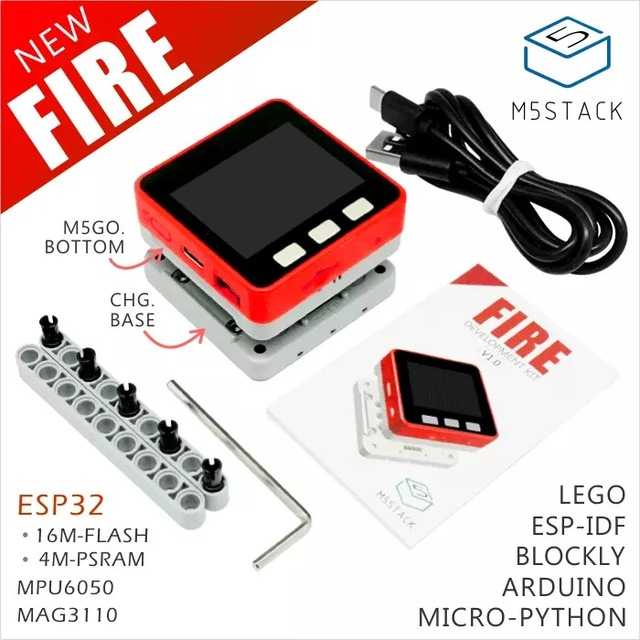
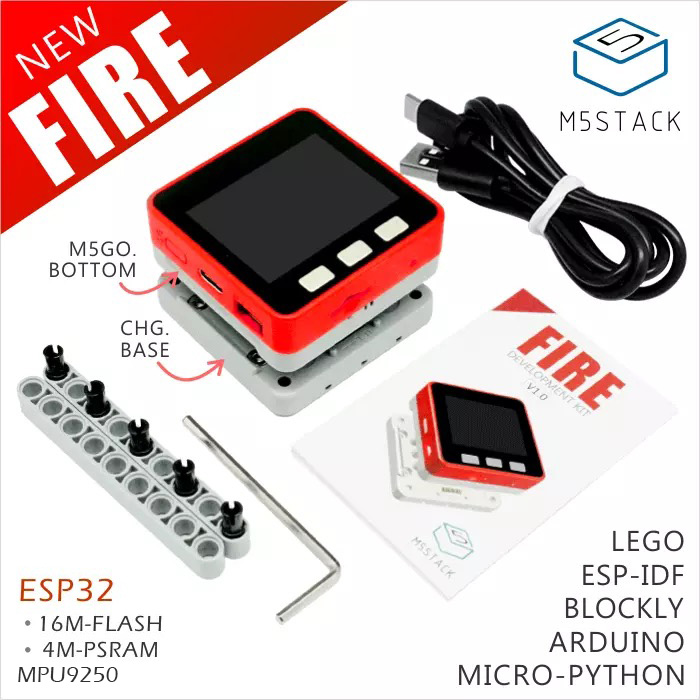
fix fire mems to mpu9250

diff --git a/docs/en/product_documents/m5stack-core/m5core_fire.md b/docs/en/product_documents/m5stack-core/m5core_fire.md
@@ -4,7 +4,7 @@
 
 The M5Stack **<mark>FIRE</mark>** is a development kit based on <mark>ESP32</mark> chip. FIRE is a kit which composed of red m5core, M5Go Base and M5Go CHG. Base(for charging red m5core). You can even program The M5Stack FIRE through Blockly, Arduino or MicroPython.
 
-The M5Stack FIRE equips the ESP32 with everything necessary to program, run and develop on the wonderchip. It also features a Six-Axis (Gyro + Accelerometer) MEMS (**MPU-6050**), a 3-Axis Digital Magnetometer (**MAG3110**) and a TFT LCD, so you can create a 3D remote gesture controller, a simple "Leap Motion" via M5Stack FIRE in a day in stead of couple weeks and so on.
+The M5Stack FIRE equips the ESP32 with everything necessary to program, run and develop on the wonderchip. It also features a 9-Axis (Gyro + Accelerometer + Magnetometer) MEMS (**MPU-9250**) and a TFT LCD, so you can create a 3D remote gesture controller, a simple "Leap Motion" via M5Stack FIRE in a day in stead of couple weeks and so on.
 
 M5Go CHG. Base is composed of POGO pin. M5Go Base is composed of PORT B, PORT C, 2 RGBLed Bars(SK6812), a microphone and a Battery(600mAh).
 
@@ -21,15 +21,15 @@ M5Go CHG. Base is composed of POGO pin. M5Go Base is composed of PORT B, PORT C,
 
 | Source        | Parameter      |
 | :----------:  |:------------: |
-| <mark>ESP32</mark>         | 240MHz dual core, 600 DMIPS, 4MB SRAM, Wi-Fi, dual mode Bluetooth         |
-| Flash          | 16M-Bytes            |
+| <mark>ESP32</mark>         | 240MHz dual core, 600 DMIPS, 520KB SRAM, Wi-Fi, dual mode Bluetooth         |
+| Flash          | 16MB Flash + 4MB pSRAM |
 | Input          | 5V @ 500mA            |
 | Interface          | TypeC x 1, GROVE(I2C+I/0+UART) x 1            |
 | LCD          | 2 inch, 320x240 Colorful TFT LCD, ILI9342            |
 | Speaker          | 1W-0928            |
 | Microphone          | MEMS Analog BSE3729 Microphone            |
 | LED          | SK6812 3535 RGB LED x 10            |
-| **MEMS**          | MPU6050, MAG3110            |
+| **MEMS**          | MPU9250 (MPU6500 + AK8963)          |
 | Battery          | 550mAh @ 3.7V, inside  vb            |
 | Op.Temp.          | 32°F to 104°F ( 0°C to 40°C )            |
 | Size          | 54 x 54 x 12.5 mm            |
@@ -96,18 +96,9 @@ M5Go CHG. Base is composed of POGO pin. M5Go Base is composed of PORT B, PORT C,
 
 **MEMS Chip**
 
-*MPU6050 i2c address: 0x68*
+*MPU9250 i2c address: 0x68*
 
-| MPU6050      | ESP32 Chip    |
-| :----------:  |:------------: |
-| SCL           | GPIO22        |
-| SDA           | GPIO21        |
-| 5V            | 5V            |
-| GND           | GND           |
-
-*MAG3110 i2c address: 0x0e*
-
-| MAG3110      | ESP32 Chip    |
+| MPU9250       | ESP32 Chip    |
 | :----------:  |:------------: |
 | SCL           | GPIO22        |
 | SDA           | GPIO21        |
@@ -137,7 +128,9 @@ M5Go CHG. Base is composed of POGO pin. M5Go Base is composed of PORT B, PORT C,
 
 **M-Bus**
 
-*Please refer to the last picture*
+<figure>
+  <img src="assets/img/product_pics/core/M-BUS.jpg" alt="M_BUS" width="300" height="300">
+</figure>
 
 ## INCLUDES
 
@@ -153,7 +146,9 @@ M5Go CHG. Base is composed of POGO pin. M5Go Base is composed of PORT B, PORT C,
     - [Arduino](https://github.com/m5stack/M5Stack/tree/master/examples)
     - [MicroPython](https://github.com/m5stack/M5GO/tree/master/examples)
 
--  **Datasheet** - [ESP32](https://www.espressif.com/sites/default/files/documentation/esp32_datasheet_cn.pdf) - [MPU6050](https://www.invensense.com/wp-content/uploads/2015/02/MPU-6000-Datasheet1.pdf) - [MAG3110](https://www.nxp.com/docs/en/data-sheet/MAG3110.pdf)
+-  **Datasheet** - [ESP32](https://www.espressif.com/sites/default/files/documentation/esp32_datasheet_cn.pdf) - [MPU9250](http://www.invensense.com/wp-content/uploads/2015/02/PS-MPU-9250A-01-v1.1.pdf) - [AK8963](https://www.akm.com/akm/en/file/datasheet/AK8963C.pdf)
+
+-  **Register map** - [MPU9250](https://www.invensense.com/wp-content/uploads/2015/02/RM-MPU-9250A-00-v1.6.pdf)
 
 -  **GitHub** - [Arduino](https://github.com/m5stack/M5Stack) - [MicroPython](https://github.com/m5stack/M5GO)
 
@@ -180,5 +175,9 @@ M5Go CHG. Base is composed of POGO pin. M5Go Base is composed of PORT B, PORT C,
 </figure>
 
 <figure>
-    <img src="assets/img/product_pics/core/fire/m5_fire_04.jpg" >
+    <img src="assets/img/product_pics/core/fire/m5_fire_01.jpg" >
+</figure>
+
+<figure>
+    <img src="assets/img/product_pics/core/fire/m5_fire_02.jpg" >
 </figure>

diff --git a/docs/zh_CN/product_documents/m5stack-core/m5core_fire.md b/docs/zh_CN/product_documents/m5stack-core/m5core_fire.md
@@ -2,7 +2,7 @@
 
 ## 描述
 
-M5Core **<mark>FIRE</mark>**是一款基于**ESP32**芯片(集成Wi-Fi和蓝牙)的升级版开发板，包括红色的主板、M5GO底座和M5GO充电底座。你可以用[M5Flow](http://flow.m5stack.com), MicroPython或Arduino来编程它. 这个红色主板包含3个按键、喇叭、LCD(320x240)、TF卡插槽、**MPU6050**和**MAG3110**。
+M5Core **<mark>FIRE</mark>**是一款基于**ESP32**芯片(集成Wi-Fi和蓝牙)的升级版开发板，包括红色的主板、M5GO底座和M5GO充电底座。你可以用[M5Flow](http://flow.m5stack.com), MicroPython或Arduino来编程它. 这个红色主板包含3个按键、喇叭、LCD(320x240)、TF卡插槽、**MPU9250**。
 
 M5GO底座内置PORT B, PORT C, 2个RGBLed灯条(SK6812), 一个麦克风和一个电池(550mAh)。
 
@@ -18,17 +18,17 @@ M5GO CHG.底座包含POGO Pin。FIRE主控通过POGO Pin与这个充电底座连
 
 | 主控资源        | 参数      |
 | :----------:  |:------------: |
-| <mark>ESP32</mark>         | 240MHz dual core, 600 DMIPS, 4MB SRAM, Wi-Fi, dual mode Bluetooth         |
-| Flash          | 16M-Bytes            |
-| Input          | 5V @ 500mA            |
+| <mark>ESP32</mark>         | 240MHz dual core, 600 DMIPS, 520KB SRAM, Wi-Fi, dual mode Bluetooth         |
+| Flash          | 16MB Flash + 4MB pSRAM |
+| Input          | 5V @ 500mA             |
 | Interface          | TypeC x 1, GROVE(I2C+I/0+UART) x 1            |
 | LCD          | 2 inch, 320x240 Colorful TFT LCD, ILI9342            |
 | Speaker          | 1W-0928            |
 | Microphone          | MEMS Analog BSE3729 Microphone            |
 | LED          | SK6812 3535 RGB LED x 10            |
-| **MEMS**          | MPU6050, MAG3110            |
-| Battery          | 550mAh @ 3.7V, inside  vb            |
-| Op.Temp.          | 32°F to 104°F ( 0°C to 40°C )            |
+| **MEMS**          | MPU9250 (MPU6500 + AK8963)     |
+| Battery          | 550mAh @ 3.7V, inside  vb       |
+| Op.Temp.          | 32°F to 104°F ( 0°C to 40°C )  |
 | Size          | 54 x 54 x 12.5 mm            |
 | C.A.S.E          | Plastic ( PC )            |
 | Weight          | 56g            |
@@ -93,18 +93,9 @@ M5GO CHG.底座包含POGO Pin。FIRE主控通过POGO Pin与这个充电底座连
 
 **MEMS传感器**
 
-*MPU6050 i2c address: 0x68*
+*MPU9250 i2c address: 0x68*
 
-| MPU6050      | ESP32 Chip    |
-| :----------:  |:------------: |
-| SCL           | GPIO22        |
-| SDA           | GPIO21        |
-| 5V            | 5V            |
-| GND           | GND           |
-
-*MAG3110 i2c address: 0x0e*
-
-| MAG3110      | ESP32 Chip    |
+| MPU9250      | ESP32 Chip    |
 | :----------:  |:------------: |
 | SCL           | GPIO22        |
 | SDA           | GPIO21        |
@@ -148,7 +139,9 @@ M5GO CHG.底座包含POGO Pin。FIRE主控通过POGO Pin与这个充电底座连
 
 -  **例程** - [Arduino](https://github.com/m5stack/M5Stack/tree/master/examples) - [MicroPython](https://github.com/m5stack/M5GO/tree/master/examples)
 
--  **数据手册** - [ESP32](https://www.espressif.com/sites/default/files/documentation/esp32_datasheet_cn.pdf) - [MPU6050](https://www.invensense.com/wp-content/uploads/2015/02/MPU-6000-Datasheet1.pdf) - [MAG3110](https://www.nxp.com/docs/en/data-sheet/MAG3110.pdf)
+-  **数据手册** - [ESP32](https://www.espressif.com/sites/default/files/documentation/esp32_datasheet_cn.pdf) - [MPU9250](http://www.invensense.com/wp-content/uploads/2015/02/PS-MPU-9250A-01-v1.1.pdf) - [AK8963](https://www.akm.com/akm/en/file/datasheet/AK8963C.pdf)
+
+-  **Register map** - [MPU9250](https://www.invensense.com/wp-content/uploads/2015/02/RM-MPU-9250A-00-v1.6.pdf)
 
 -  **GitHub** - [Arduino](https://github.com/m5stack/M5Stack) - [MicroPython](https://github.com/m5stack/M5GO)
 
@@ -173,5 +166,9 @@ M5GO CHG.底座包含POGO Pin。FIRE主控通过POGO Pin与这个充电底座连
 </figure>
 
 <figure>
-    <img src="assets/img/product_pics/core/fire/m5_fire_04.jpg">
+    <img src="assets/img/product_pics/core/fire/m5_fire_01.jpg">
+</figure>
+
+<figure>
+    <img src="assets/img/product_pics/core/fire/m5_fire_02.jpg">
 </figure>

diff --git a/docs/ja/product_documents/applications/application_bala.md b/docs/ja/product_documents/applications/application_bala.md
@@ -21,15 +21,15 @@
 |項目|詳細|
 |:---|:---|
 |対応 Core | M5Stack FIRE   <mark>※M5BALAには含まれません</mark>|
-|ESP32| 240MHz x 2コア, 600 DMIPS, 4MB SRAM, Wi-Fi, デュアルモード Bluetooth|
-|Flash| 16M-Bytes|
+|ESP32| 240MHz x 2コア, 600 DMIPS, 520KB SRAM, Wi-Fi, デュアルモード Bluetooth|
+|Flash| 16MB Flash + 4MB pSRAM|
 |電源入力 | 5V @ 500mA|
 |インターフェース | USB Type-C x 1, Grove(I2C+I/0+UART), Pogoピン x 1|
 |画面 | 2 inch, 320x240 Colorful TFT LCD, ILI9342|
 |スピーカー | 1W-0928|
 |マイク | MEMS Analog BSE3729 Microphone|
 |LED | SK6812 3535 RGB LED x 10|
-|MEMS | MPU6050/MAG3110|
+|MEMS | MPU9250 (MPU6500 + AK8963)|
 |電池 | 550mAh @ 3.7V 内蔵|
 |動作温度 | 32°F to 104°F ( 0°C to 40°C )|
 |サイズ | 54 x 54 x 21 mm|
@@ -78,9 +78,9 @@
 
 - [M5BALA 購入(スイッチサイエンス)](https://www.switch-science.com/catalog/3995/)
 - [M5Stack FIRE 購入(スイッチサイエンス)](https://www.switch-science.com/catalog/3953/)
-- [M5BALA 購入(AliExpress)](https://www.aliexpress.com/store/product/M5Satck-BALA-ESP32-2DC-PSRAM-MPU6050-MAG3110-BLE/3226069_32904033658.html)
+- [M5BALA 購入(AliExpress)](https://www.aliexpress.com/store/product/M5Satck-BALA-ESP32-2DC-PSRAM-MPU9250-BLE/3226069_32904033658.html)
 - [M5Stack FIRE 購入(AliExpress)](https://www.aliexpress.com/store/product/M5Stack-PSRAM-2-0-IoT-ESP32-16M-FLash-4M-PSRAM-BLE/3226069_32847906756.html)
 - [LEGO-CABLE 購入(AliExpress)](https://www.aliexpress.com/store/product/M5Stack-M5Bala-ESP32-6Pin-10-20/3226069_32923086380.html)
-- [MPU6050 データシート](https://store.invensense.com/datasheets/invensense/MPU-6050_DataSheet_V3%204.pdf)
-- [MPU6050 レジスタマップ](https://www.invensense.com/wp-content/uploads/2015/02/MPU-6000-Register-Map1.pdf)
-- [MAG3110 データシート](https://www.nxp.com/docs/en/data-sheet/MAG3110.pdf)
+- [MPU9250 データシート](http://www.invensense.com/wp-content/uploads/2015/02/PS-MPU-9250A-01-v1.1.pdf)
+- [MPU9250 レジスタマップ](https://www.invensense.com/wp-content/uploads/2015/02/RM-MPU-9250A-00-v1.6.pdf)
+- [AK8963 データシート](https://strawberry-linux.com/pub/AK8963.pdf)

diff --git a/docs/en/product_documents/m5stack-core/m5core_basic.md b/docs/en/product_documents/m5stack-core/m5core_basic.md
@@ -2,7 +2,7 @@
 
 ## DESCRIPTION
 
-The M5Stack **<mark>BASIC</mark>** is a black development kit based on <mark>ESP32</mark> chip composed of a black M5Core and a Bottom Base board. You can even program The M5Stack BASIC through Blockly, Arduino or MicroPython. The black core is a basic kit and **it does not own any MEMS chip(like MPU9250, MPU6050, or MAG3110...)**.
+The M5Stack **<mark>BASIC</mark>** is a black development kit based on <mark>ESP32</mark> chip composed of a black M5Core and a Bottom Base board. You can even program The M5Stack BASIC through Blockly, Arduino or MicroPython. The black core is a basic kit and **it does not own any MEMS chip(like MPU9250...)**.
 
 The a Bottom board on the back of M5Core. It's designed for expanding gpio on M-Bus besides I2S Pins(GPIO0, GPIO12, GPIO13, GPIO15, GPIO34)for DIY. Each gpio on M-Bus is expanded as pin and port for convenience and flexibility.
 
@@ -18,7 +18,7 @@ The a Bottom board on the back of M5Core. It's designed for expanding gpio on M-
 
 | Source        | Parameter      |
 | :----------:  |:------------: |
-| <mark>ESP32</mark>         | 240MHz dual core, 600 DMIPS, 520K, Wi-Fi, dual mode Bluetooth         |
+| <mark>ESP32</mark>         | 240MHz dual core, 600 DMIPS, 520KB SRAM, Wi-Fi, dual mode Bluetooth         |
 | Flash)          | 4M-Bytes            |
 | Input          | 5V @ 500mA            |
 | Interface          | TypeC x 1, GROVE(I2C+I/0+UART) x 1            |
@@ -79,8 +79,9 @@ The a Bottom board on the back of M5Core. It's designed for expanding gpio on M-
 
 **M-Bus**
 
-*Please refer to the last picture*
-
+<figure>
+  <img src="assets/img/product_pics/core/M-BUS.jpg" alt="M_BUS" width="300" height="300">
+</figure>
 
 ## INCLUDES
 
@@ -117,8 +118,4 @@ The a Bottom board on the back of M5Core. It's designed for expanding gpio on M-
 </figure>
 <figure>
   <img src="assets/img/product_pics/core/basic/basic_05.jpg" alt="basic_05" width="65%" height="65%">
-</figure>
-
-<figure>
-  <img src="assets/img/product_pics/core/M-BUS.jpg" alt="basic_05" width="65%" height="65%">
 </figure>

diff --git a/docs/en/product_documents/m5stack-core/m5core_gray.md b/docs/en/product_documents/m5stack-core/m5core_gray.md
@@ -20,7 +20,7 @@ The a Bottom board on the back of M5Core. It's designed for expanding gpio on M-
 
 | Source        | Parameter      |
 | :----------:  |:------------: |
-| <mark>ESP32</mark>         | 240MHz dual core, 600 DMIPS, 520K, Wi-Fi, dual mode Bluetooth         |
+| <mark>ESP32</mark>         | 240MHz dual core, 600 DMIPS, 520KB SRAM, Wi-Fi, dual mode Bluetooth         |
 | Flash)          | 4M-Bytes            |
 | Input          | 5V @ 500mA            |
 | Interface          | TypeC x 1, GROVE(I2C+I/0+UART) x 1            |
@@ -88,7 +88,9 @@ The a Bottom board on the back of M5Core. It's designed for expanding gpio on M-
 
 **M-Bus**
 
-*Please refer to the last picture*
+<figure>
+  <img src="assets/img/product_pics/core/M-BUS.jpg" alt="M_BUS" width="300" height="300">
+</figure>
 
 ## INCLUDES
 
@@ -128,8 +130,4 @@ The a Bottom board on the back of M5Core. It's designed for expanding gpio on M-
 </figure>
 <figure>
   <img src="assets/img/product_pics/core/gray/gray_05.jpg" alt="gray_05" width="65%" height="65%">
-</figure>
-
-<figure>
-  <img src="assets/img/product_pics/core/M-BUS.jpg" alt="basic_05" width="65%" height="65%">
 </figure>

diff --git a/docs/en/product_documents/m5stack-core/m5core_white.md b/docs/en/product_documents/m5stack-core/m5core_white.md
@@ -21,7 +21,7 @@ The a Bottom board on the back of M5Core. It's designed for expanding gpio on M-
 
 | Source        | Parameter      |
 | :----------:  |:------------: |
-| <mark>ESP32</mark>         | 240MHz dual core, 600 DMIPS, 520K, Wi-Fi, dual mode Bluetooth         |
+| <mark>ESP32</mark>         | 240MHz dual core, 600 DMIPS, 520KB SRAM, Wi-Fi, dual mode Bluetooth         |
 | Flash)          | 4M-Bytes            |
 | Input          | 5V @ 500mA            |
 | Interface          | TypeC x 1, GROVE(I2C+I/0+UART) x 1            |
@@ -126,7 +126,9 @@ The a Bottom board on the back of M5Core. It's designed for expanding gpio on M-
 
 **M-Bus**
 
-*Please refer to the last picture*
+<figure>
+  <img src="assets/img/product_pics/core/M-BUS.jpg" alt="M_BUS" width="300" height="300">
+</figure>
 
 ## INCLUDES
 
@@ -150,9 +152,4 @@ The a Bottom board on the back of M5Core. It's designed for expanding gpio on M-
 
 <figure>
     <img src="assets/img/product_pics/core/m5go/m5go_main_board.jpg" width="500">
-</figure>
-
-<figure>
-  <img src="assets/img/product_pics/core/M-BUS.jpg" alt="basic_05" width="65%" height="65%">
-</figure>
 </figure>

diff --git a/docs/en/product_documents/m5stack-core/m5go_iot_starter_kit.md b/docs/en/product_documents/m5stack-core/m5go_iot_starter_kit.md
@@ -20,7 +20,7 @@ We also supply some courses for teaching IOT programming. If you are interesting
 
 | Source        | Parameter      |
 | :----------:  |:------------: |
-| <mark>ESP32</mark>         | 240MHz dual core, 600 DMIPS, 520K, Wi-Fi, dual mode Bluetooth         |
+| <mark>ESP32</mark>         | 240MHz dual core, 600 DMIPS, 520KB SRAM, Wi-Fi, dual mode Bluetooth         |
 | Flash)          | 4M-Bytes            |
 | Input          | 5V @ 500mA            |
 | Interface          | TypeC x 1, GROVE(I2C+I/0+UART) x 1            |
@@ -125,7 +125,9 @@ We also supply some courses for teaching IOT programming. If you are interesting
 
 **M-Bus**
 
-*Please refer to the last picture*
+<figure>
+  <img src="assets/img/product_pics/core/M-BUS.jpg" alt="M_BUS" width="300" height="300">
+</figure>
 
 ## INCLUDES
 
@@ -173,8 +175,4 @@ We also supply some courses for teaching IOT programming. If you are interesting
 
 <figure>
     <img src="assets/img/product_pics/core/m5go/m5go_06.png" width="500">
-</figure>
-
-<figure>
-  <img src="assets/img/product_pics/core/M-BUS.jpg" alt="basic_05" width="65%" height="65%">
 </figure>

diff --git a/docs/en/product_documents/applications/application_bala.md b/docs/en/product_documents/applications/application_bala.md
@@ -19,15 +19,15 @@ The 2 DC driver module communicates with M5Stack FIRE through I2C bus. It's defa
 
 Model | M5Stack FIRE
 ---|---
-ESP32 | 240MHz dual core, 600 DMIPS, 4MB SRAM, Wi-Fi, dual mode Bluetooth
-Flash | 16M-Bytes
+ESP32 | 240MHz dual core, 600 DMIPS, 520KB SRAM, Wi-Fi, dual mode Bluetooth
+Flash | 16MB Flash + 4MB pSRAM
 Input | 5V @ 500mA
 Interface | TypeC x 1, GROVE(I2C+I/0+UART), Pogo Pin x 1
 LCD | 2 inch, 320x240 Colorful TFT LCD, ILI9342
 Speaker | 1W-0928
 Microphone | MEMS Analog BSE3729 Microphone
 LED | SK6812 3535 RGB LED x 10
-MEMS | MPU6050, MAG3110
+MEMS | MPU9250 (MPU6500 + AK8963)
 Battery | 550mAh @ 3.7V, inside
 Op.Temp. | 32°F to 104°F ( 0°C to 40°C )
 Size | 54 x 54 x 21 mm

diff --git a/docs/zh_CN/product_documents/applications/application_bala.md b/docs/zh_CN/product_documents/applications/application_bala.md
@@ -19,15 +19,15 @@ The 2 DC driver module communicates with M5Stack FIRE through I2C bus. It's defa
 
 Model | M5Stack FIRE
 ---|---
-ESP32 | 240MHz dual core, 600 DMIPS, 4MB SRAM, Wi-Fi, dual mode Bluetooth
-Flash | 16M-Bytes
+ESP32 | 240MHz dual core, 600 DMIPS, 520KB SRAM, Wi-Fi, dual mode Bluetooth
+Flash | 16MB Flash + 4MB pSRAM
 Input | 5V @ 500mA
 Interface | TypeC x 1, GROVE(I2C+I/0+UART), Pogo Pin x 1
 LCD | 2 inch, 320x240 Colorful TFT LCD, ILI9342
 Speaker | 1W-0928
 Microphone | MEMS Analog BSE3729 Microphone
 LED | SK6812 3535 RGB LED x 10
-MEMS | MPU6050, MAG3110
+MEMS | MPU9250 (MPU6500 + AK8963)
 Battery | 550mAh @ 3.7V, inside
 Op.Temp. | 32°F to 104°F ( 0°C to 40°C )
 Size | 54 x 54 x 21 mm
